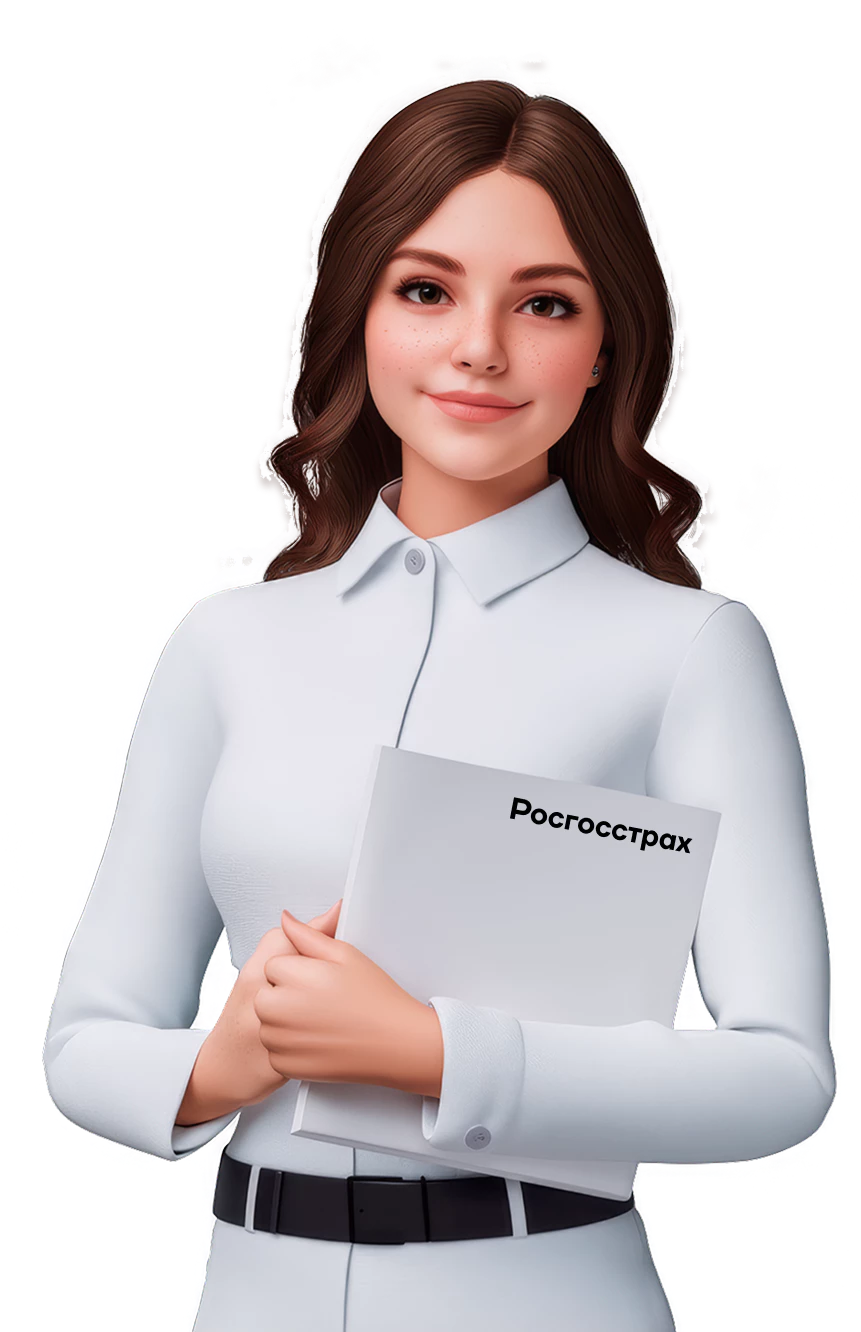
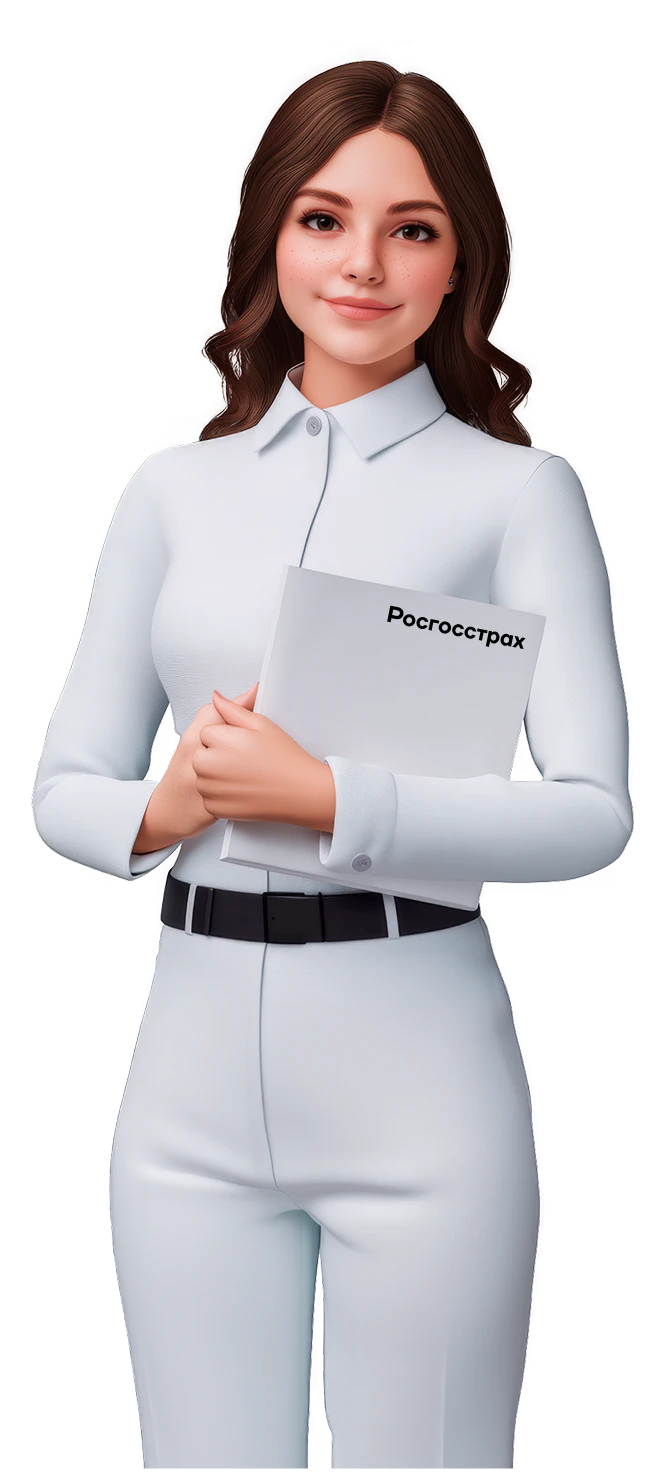
18.03

diff --git a/src/pages/voltagePage/VoltagePage.scss b/src/pages/voltagePage/VoltagePage.scss
@@ -72,7 +72,7 @@
 
 	&__boy-container {
 		position: absolute;
-		bottom: -180px;
+		bottom: -18%;
 		left: 0;
 		z-index: 2;
 		min-width: 560px;
@@ -82,13 +82,13 @@
 	}
 
 	&__woman {
-		max-height: 74dvh;
+		max-height: 110dvh;
 	}
 
 	&__woman-container {
 		position: absolute;
-		bottom: 0px;
-		right: 11%;
+		bottom: -34%;
+		right: 12%;
 		z-index: 2;
 
 		min-width: 400px;
@@ -129,7 +129,7 @@
 
 		&__screen4 {
 			left: 33%;
-			top: 9%;
+			top: 7%;
 			width: 32%;
 			height: 17%;
 		}
@@ -241,14 +241,7 @@
 .screen__woman-container:has(.screen__woman_final) {
 	right: auto;
 	left: 1%;
-}
-
-@media (max-width: 1440px) {
-	/* .screen {
-		&__boy {
-			max-height: 77dvh;
-		}
-	} */
+	bottom: 0;
 }
 
 @media (max-width: 1420px) {
@@ -281,7 +274,7 @@
 			right: 10%;
 		}
 		&__boy {
-			max-height: 74dvh;
+			max-height: 94dvh;
 		}
 		&__screen1,
 		&__screen5,
@@ -312,9 +305,6 @@
 			right: 2%;
 		}
 
-		&__woman {
-			max-height: 70dvh;
-		}
 		.replica {
 			&__screen8 {
 				left: 29%;
@@ -330,6 +320,9 @@
 				top: 58%;
 			}
 		}
+	}
+	.screen__woman-container:has(.screen__woman_final) {
+		left: -2%;
 	}
 }
 
@@ -367,51 +360,26 @@
 			max-height: 54dvh;
 		}
 		&__boy-container {
-			left: -4%;
+			left: -2%;
+			bottom: -2%;
 		}
 		&__woman {
-			max-height: 54dvh;
+			max-height: 58dvh;
 		}
 
 		.replica {
-			font-size: 14px;
 			svg {
 				left: 20px;
 				bottom: auto;
 				top: -28px;
 				transform: rotate(180deg) scale(-1, 1);
 			}
-			&__screen1 {
-				left: 24%;
-				top: auto;
-				bottom: 26%;
-			}
-
-			&__screen2 {
-				left: 24%;
-				top: auto;
-				bottom: 26%;
-			}
-			&__screen3 {
-				left: 24%;
-				top: auto;
-				bottom: 26%;
-			}
-			&__screen4 {
-				left: 24%;
-				top: auto;
-				bottom: 26%;
-			}
-			&__screen5 {
-				left: 24%;
-				top: auto;
-				bottom: 26%;
-			}
-			&__screen6 {
-				left: 24%;
-				top: auto;
-				bottom: 26%;
-			}
+			&__screen1,
+			&__screen2,
+			&__screen3,
+			&__screen4,
+			&__screen5,
+			&__screen6,
 			&__screen7 {
 				left: 24%;
 				top: auto;
@@ -442,8 +410,9 @@
 				}
 			}
 		}
-		.screen__woman-container {
-			min-width: 360px;
+		&__woman-container {
+			min-width: 260px;
+			bottom: -6%;
 			right: 0;
 			&:has(.screen__woman_final) {
 				display: none;
@@ -502,6 +471,63 @@
 				left: 36%;
 				top: 10%;
 			}
+		}
+	}
+}
+
+@media (max-width: 768px) {
+	.screen {
+		.replica {
+			&__screen1,
+			&__screen2,
+			&__screen3,
+			&__screen4,
+			&__screen5,
+			&__screen6,
+			&__screen7 {
+				left: 50%;
+				transform: translate(-50%);
+				top: auto;
+				bottom: 22%;
+				min-width: 62%;
+			}
+			&__screen8,
+			&__screen9 {
+				left: 50%;
+				transform: translate(-50%);
+				top: auto;
+				bottom: 56%;
+				min-width: 62%;
+
+				svg {
+					left: 20px;
+					bottom: -26px;
+					top: auto;
+					transform: none;
+				}
+			}
+			&__woman_8,
+			&__woman_9 {
+				right: 56%;
+				transform: translateX(50%);
+				top: auto;
+				bottom: 18%;
+				min-width: 84%;
+
+				svg {
+					left: auto;
+					bottom: auto;
+					top: -28px;
+					transform: rotate(180deg);
+				}
+			}
+		}
+		&__boy-container {
+			left: -6%;
+		}
+		&__woman-container {
+			min-width: 160px;
+			right: -8%;
 		}
 	}
 }

diff --git a/src/components/voltageFinal/VoltageFinal.scss b/src/components/voltageFinal/VoltageFinal.scss
@@ -214,7 +214,7 @@
 			height: 90dvh;
 
 			left: 50%;
-			top: 50%;
+			top: 48%;
 			transform: translate(-50%, -50%);
 
 			.btn {
@@ -246,6 +246,53 @@
 		}
 		&__scroll {
 			max-height: 80dvh;
+		}
+		.accent {
+			div {
+				flex: 1;
+			}
+		}
+	}
+}
+
+@media (max-width: 768px) {
+	.voltage-final {
+		padding: 0 12px 0 0;
+
+		&__wrapper {
+			border-radius: 32px;
+			height: 88dvh;
+
+			.btn {
+				min-width: 80%;
+				font-size: 14px;
+			}
+		}
+
+		&__scroll {
+			margin: 24px 10px 50px 16px;
+		}
+
+		.wrapper .column {
+			height: 70px;
+			p {
+				position: relative;
+				z-index: 2;
+				font-size: 14px;
+			}
+			img {
+				right: -4px;
+				width: 130px;
+			}
+			&:last-child img {
+				bottom: -50px;
+			}
+		}
+		.accent,
+		.list-one li,
+		.exception ul li,
+		.exception span {
+			font-size: 14px;
 		}
 	}
 }

diff --git a/src/components/voltageFinal/VoltageFinal.jsx b/src/components/voltageFinal/VoltageFinal.jsx
@@ -76,8 +76,10 @@ function VoltageFinal() {
 					</div>
 					<div className='accent'>
 						<img src={attentionIcon} alt='icon' />
-						Это демоверсия исключений, мы уместили только некоторые,
-						<a href='##'>вот основные</a> .
+						<div>
+							Это демоверсия исключений, мы уместили только некоторые,
+							<a href='##'>вот основные</a> .
+						</div>
 					</div>
 				</div>
 			</div>

diff --git a/src/components/replica/Replica.scss b/src/components/replica/Replica.scss
@@ -33,3 +33,20 @@
 		max-width: 400px;
 	}
 }
+
+@media (max-width: 1024px) {
+	.replica {
+		font-size: 14px;
+		line-height: 140%;
+	}
+}
+
+@media (max-width: 768px) {
+	.replica {
+		font-size: 12px;
+		line-height: 130%;
+		padding: 16px 20px 20px 20px;
+		border-radius: 32px;
+		max-width: 290px;
+	}
+}

diff --git a/src/components/controlPanel/СontrolPanel.scss b/src/components/controlPanel/СontrolPanel.scss
@@ -49,3 +49,19 @@
 		}
 	}
 }
+
+@media (max-width: 768px) {
+	.controlPanel {
+		min-width: 90%;
+		min-height: 82px;
+		gap: 6px;
+		bottom: 30px;
+		.btn {
+			padding: 18px 12px;
+		}
+		p {
+			font-size: 14px;
+			padding: 0;
+		}
+	}
+}
